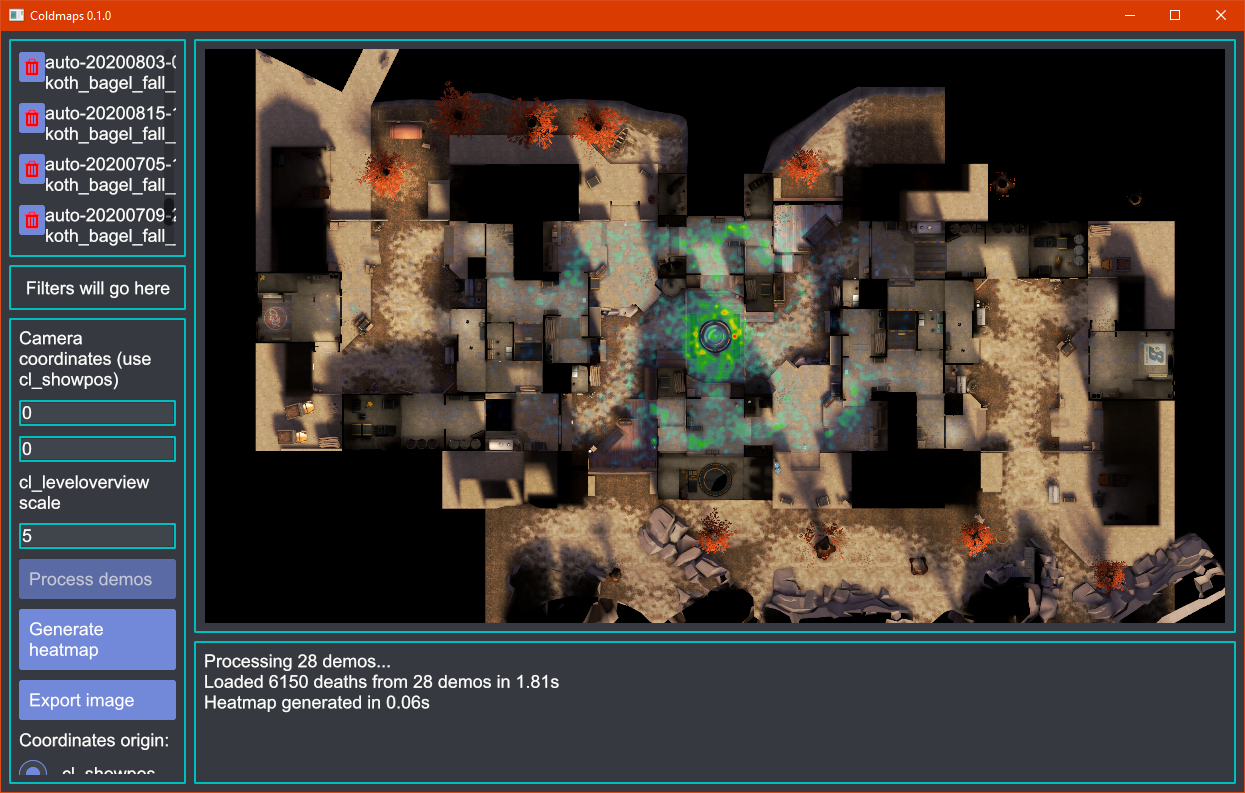
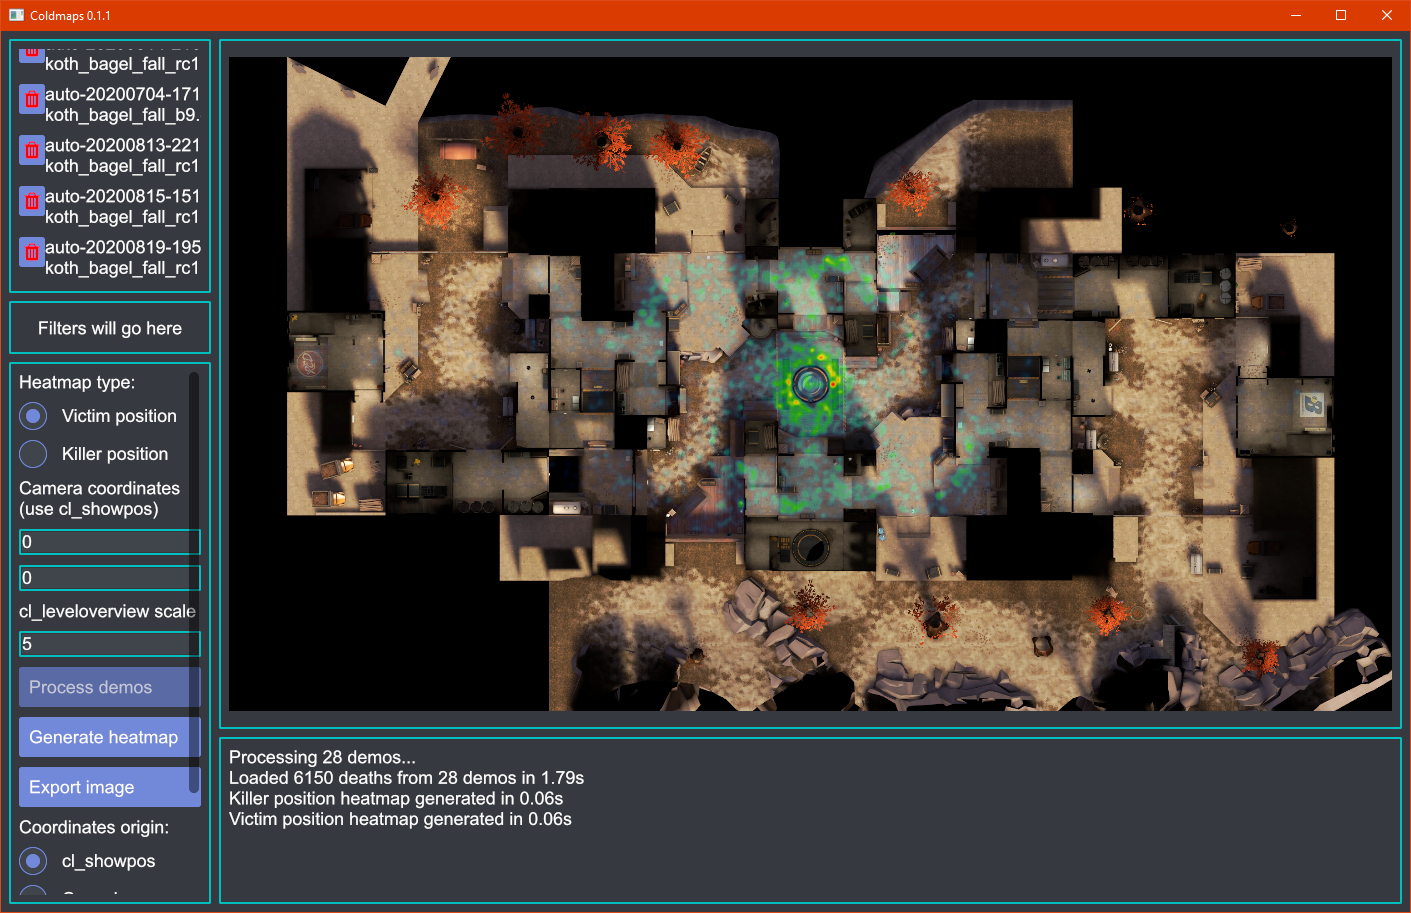
Add the option to generate heatmaps with the killer position rather than the victim position

diff --git a/src/main.rs b/src/main.rs
@@ -1,7 +1,7 @@
 use coldmaps::*;
 mod style;
 
-use heatmap::CoordsType;
+use heatmap::{CoordsType, HeatmapType};
 use heatmap_analyser::Death;
 use iced::{
     button, executor, image::Handle, pane_grid, scrollable, text_input, window, Align, Application,
@@ -74,6 +74,7 @@ enum Message {
     DemoRemoved(usize),
     ThemeChanged(style::Theme),
     CoordsTypeChanged(CoordsType),
+    HeatmapTypeChanged(HeatmapType),
     XPosInputChanged(String),
     YPosInputChanged(String),
     ScaleInputChanged(String),
@@ -246,6 +247,7 @@ struct SettingsPane {
     demos_need_processing: bool, // has the current list not been processed?
     image_ready: bool,
     coords_type: CoordsType,
+    heatmap_type: HeatmapType,
 }
 
 impl SettingsPane {
@@ -285,6 +287,22 @@ impl SettingsPane {
                 )
             },
         );
+        let choose_heatmap_type = [HeatmapType::VictimPosition, HeatmapType::KillerPosition]
+            .iter()
+            .fold(
+                Column::new().spacing(10).push(Text::new("Heatmap type:")),
+                |column, heatmap_type| {
+                    column.push(
+                        Radio::new(
+                            *heatmap_type,
+                            &format!("{}", heatmap_type),
+                            Some(self.heatmap_type),
+                            Message::HeatmapTypeChanged,
+                        )
+                        .style(self.theme),
+                    )
+                },
+            );
 
         let x_pos_input = TextInput::new(
             &mut self.x_pos_input_state,
@@ -376,6 +394,7 @@ impl SettingsPane {
             CoordsType::Console => "Camera coordinates (use the console)",
         };
         let settings_content: Element<_> = Column::new()
+            .push(choose_heatmap_type)
             .push(Text::new(coords_label))
             .push(x_pos_border)
             .push(y_pos_border)
@@ -605,6 +624,9 @@ impl Application for App {
             Message::CoordsTypeChanged(coords_type) => {
                 self.get_settings_pane().coords_type = coords_type;
             }
+            Message::HeatmapTypeChanged(heatmap_type) => {
+                self.get_settings_pane().heatmap_type = heatmap_type;
+            }
             Message::XPosInputChanged(input) => {
                 let settings_pane = self.get_settings_pane();
                 settings_pane.x_pos = input.parse().ok();
@@ -667,6 +689,7 @@ impl Application for App {
                 let pos_y = settings_pane.y_pos.unwrap();
                 let scale = settings_pane.scale.unwrap();
                 let coords_type = settings_pane.coords_type;
+                let heatmap_type = settings_pane.heatmap_type;
                 let preview_pane = self.get_preview_pane();
                 let image = match &preview_pane.heatmap_image {
                     Some(image) => image.image.clone(),
@@ -676,6 +699,7 @@ impl Application for App {
                 let screen_height = image.height();
                 return Command::perform(
                     generate_heatmap_async(
+                        heatmap_type,
                         deaths,
                         image,
                         screen_width,
@@ -689,11 +713,12 @@ impl Application for App {
                 );
             }
             Message::HeatmapGenerationDone(heatmap_generation_output) => {
+                let heatmap_type = self.get_settings_pane().heatmap_type;
                 match heatmap_generation_output.result {
                     Ok(image) => {
                         self.log(&format!(
-                            "Heatmap generated in {:.2}s",
-                            heatmap_generation_output.time_elapsed
+                            "{} heatmap generated in {:.2}s",
+                            heatmap_type, heatmap_generation_output.time_elapsed
                         ));
                         match &mut self.get_preview_pane().heatmap_image {
                             Some(heatmap_image) => {
@@ -857,6 +882,7 @@ async fn process_demos_async<'a>(input_paths: Vec<PathBuf>) -> DemoProcessingOut
 }
 
 async fn generate_heatmap_async(
+    heatmap_type: HeatmapType,
     deaths: Vec<Death>,
     image: ImageBuffer<Rgb<u8>, Vec<u8>>,
     screen_width: u32,
@@ -869,6 +895,7 @@ async fn generate_heatmap_async(
     let chrono = Instant::now();
     let result = tokio::task::spawn_blocking(move || {
         coldmaps::generate_heatmap(
+            heatmap_type,
             deaths,
             image,
             screen_width,

diff --git a/src/heatmap.rs b/src/heatmap.rs
@@ -26,6 +26,27 @@ impl Display for CoordsType {
     }
 }
 
+#[derive(Copy, Clone, Debug, Eq, PartialEq)]
+pub enum HeatmapType {
+    VictimPosition,
+    KillerPosition,
+}
+
+impl Default for HeatmapType {
+    fn default() -> Self {
+        Self::VictimPosition
+    }
+}
+
+impl Display for HeatmapType {
+    fn fmt(&self, f: &mut std::fmt::Formatter<'_>) -> std::fmt::Result {
+        match self {
+            HeatmapType::VictimPosition => write!(f, "Victim position"),
+            HeatmapType::KillerPosition => write!(f, "Killer position"),
+        }
+    }
+}
+
 #[derive(Debug)]
 struct HeatMapParameters {
     screen_width: f32,
@@ -79,6 +100,7 @@ impl HeatMapGenerator {
 
     pub fn generate_heatmap<'a>(
         &self,
+        heatmap_type: HeatmapType,
         deaths: impl IntoIterator<Item = &'a Death>,
         image: &mut ImageBuffer<Rgb<u8>, Vec<u8>>,
     ) {
@@ -96,7 +118,11 @@ impl HeatMapGenerator {
             // LinSrgba::new(1.0, 1.0, 1.0, 1.0),
         ]);
         for death in deaths {
-            if let Some(entity_state) = &death.victim_entity_state {
+            let entity_state = match heatmap_type {
+                HeatmapType::VictimPosition => &death.victim_entity_state,
+                HeatmapType::KillerPosition => &death.killer_entity_state,
+            };
+            if let Some(entity_state) = entity_state {
                 let game_coords = entity_state.position;
                 let (x_f, y_f) = self.game_coords_to_screen_coords(game_coords.x, game_coords.y);
                 let x_i = x_f.round() as i32;

diff --git a/src/lib.rs b/src/lib.rs
@@ -6,7 +6,7 @@ use image::{ImageBuffer, Rgb};
 use rayon::prelude::*;
 use std::{fs, mem, path::PathBuf, rc::Rc};
 
-use heatmap::CoordsType;
+use heatmap::{CoordsType, HeatmapType};
 use tf_demo_parser::{Demo, DemoParser};
 
 pub fn process_demos(input_paths: Vec<PathBuf>) -> (Vec<Death>, Vec<String>) {
@@ -49,6 +49,7 @@ pub fn process_demos(input_paths: Vec<PathBuf>) -> (Vec<Death>, Vec<String>) {
 }
 
 pub fn generate_heatmap(
+    heatmap_type: HeatmapType,
     deaths: Vec<Death>,
     mut image: ImageBuffer<Rgb<u8>, Vec<u8>>,
     screen_width: u32,
@@ -66,6 +67,6 @@ pub fn generate_heatmap(
         scale,
         coords_type,
     );
-    heatmap_generator.generate_heatmap(deaths.iter(), &mut image);
+    heatmap_generator.generate_heatmap(heatmap_type, deaths.iter(), &mut image);
     image
 }

diff --git a/README.md b/README.md
@@ -5,7 +5,7 @@ A tool for creating heatmaps from Team Fortress 2 demos
 
 # Download
 
-Check the [releases page](https://github.com/Tails8521/coldmaps/releases) and download the latest version, the .exe is under Assets
+Check the [releases page](https://github.com/Tails8521/coldmaps/releases) and download the latest version
 
 # How to use
 
@@ -16,7 +16,7 @@ Tip: You can use setpos \<x> \<y> \<z> to position yourself accurately
 4: Drag and drop the demo(s) you want to use for the heatmap  
 5: Fill the camera coordinates and zoom level, don't forget to tick the checkbox corresponding to what type of coordinates you used (cl_showpos or the console)  
 6: Click on the "Process demos" button to begin the demo analysis, once it has completed, you can click on the "Generate heatmap" and the heatmap should appear in the preview pane  
-7: The "Export image" button lets you export the heatmap as an image file, don't forget to specify the file extension in the file name you save as (don't type "my heatmap" but rather "my heatmap.png")
+7: The "Export image" button lets you export the heatmap as an image file
 
 # How to build
 
